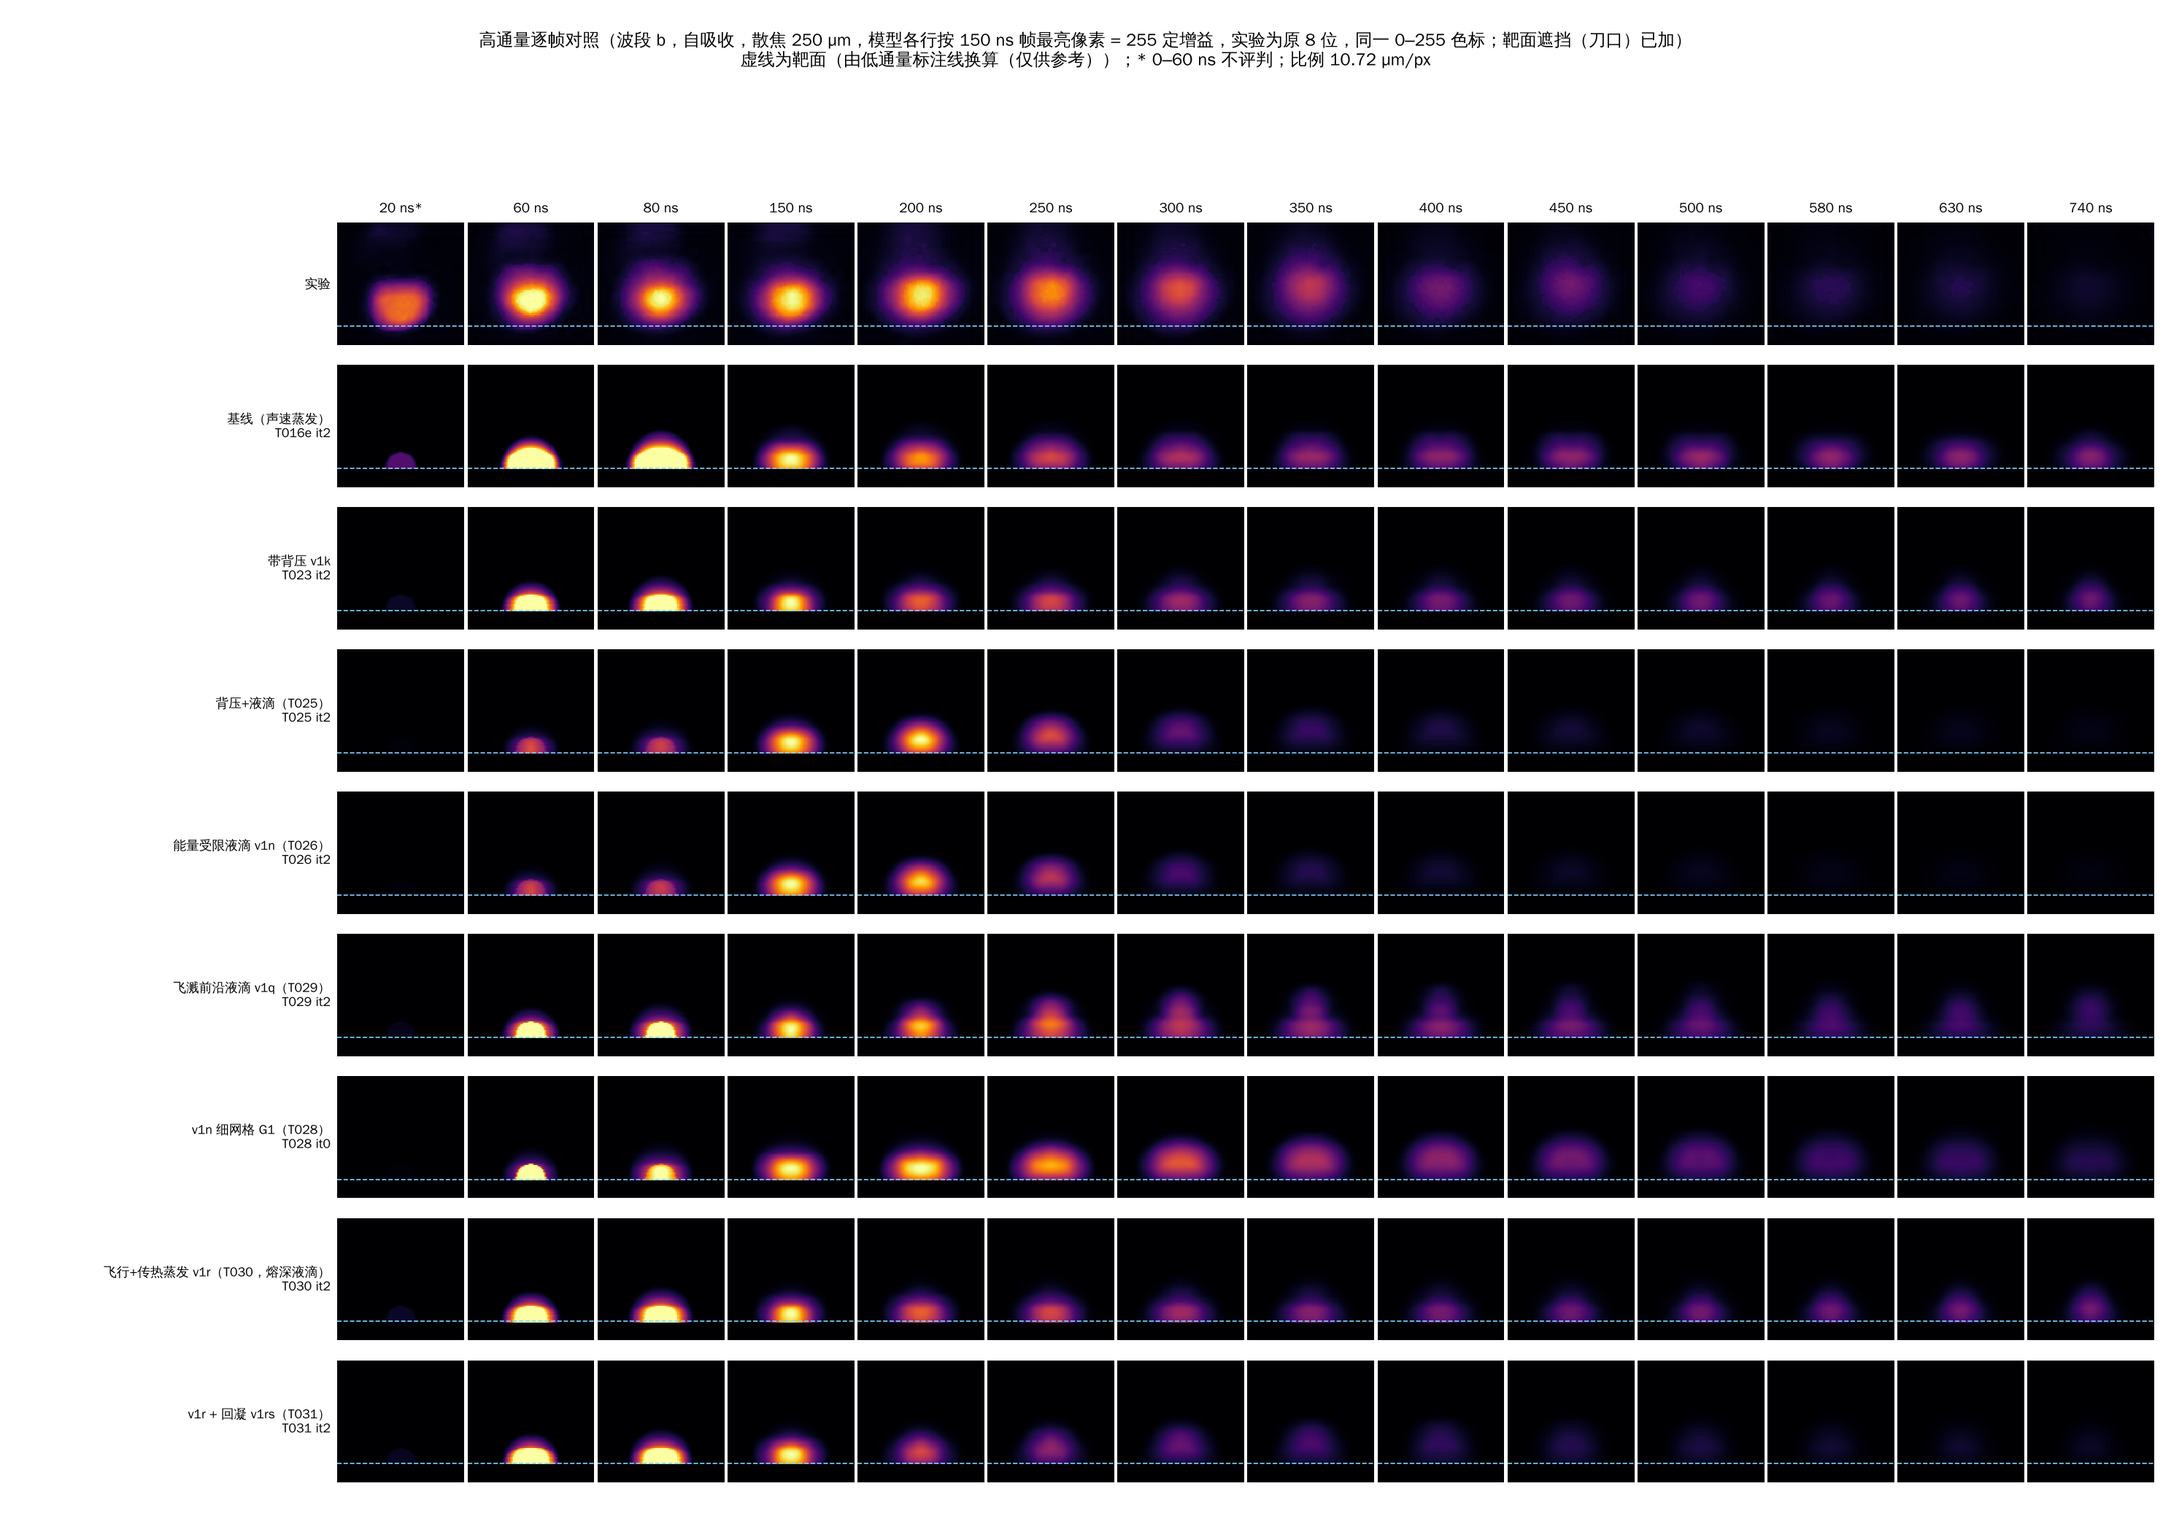
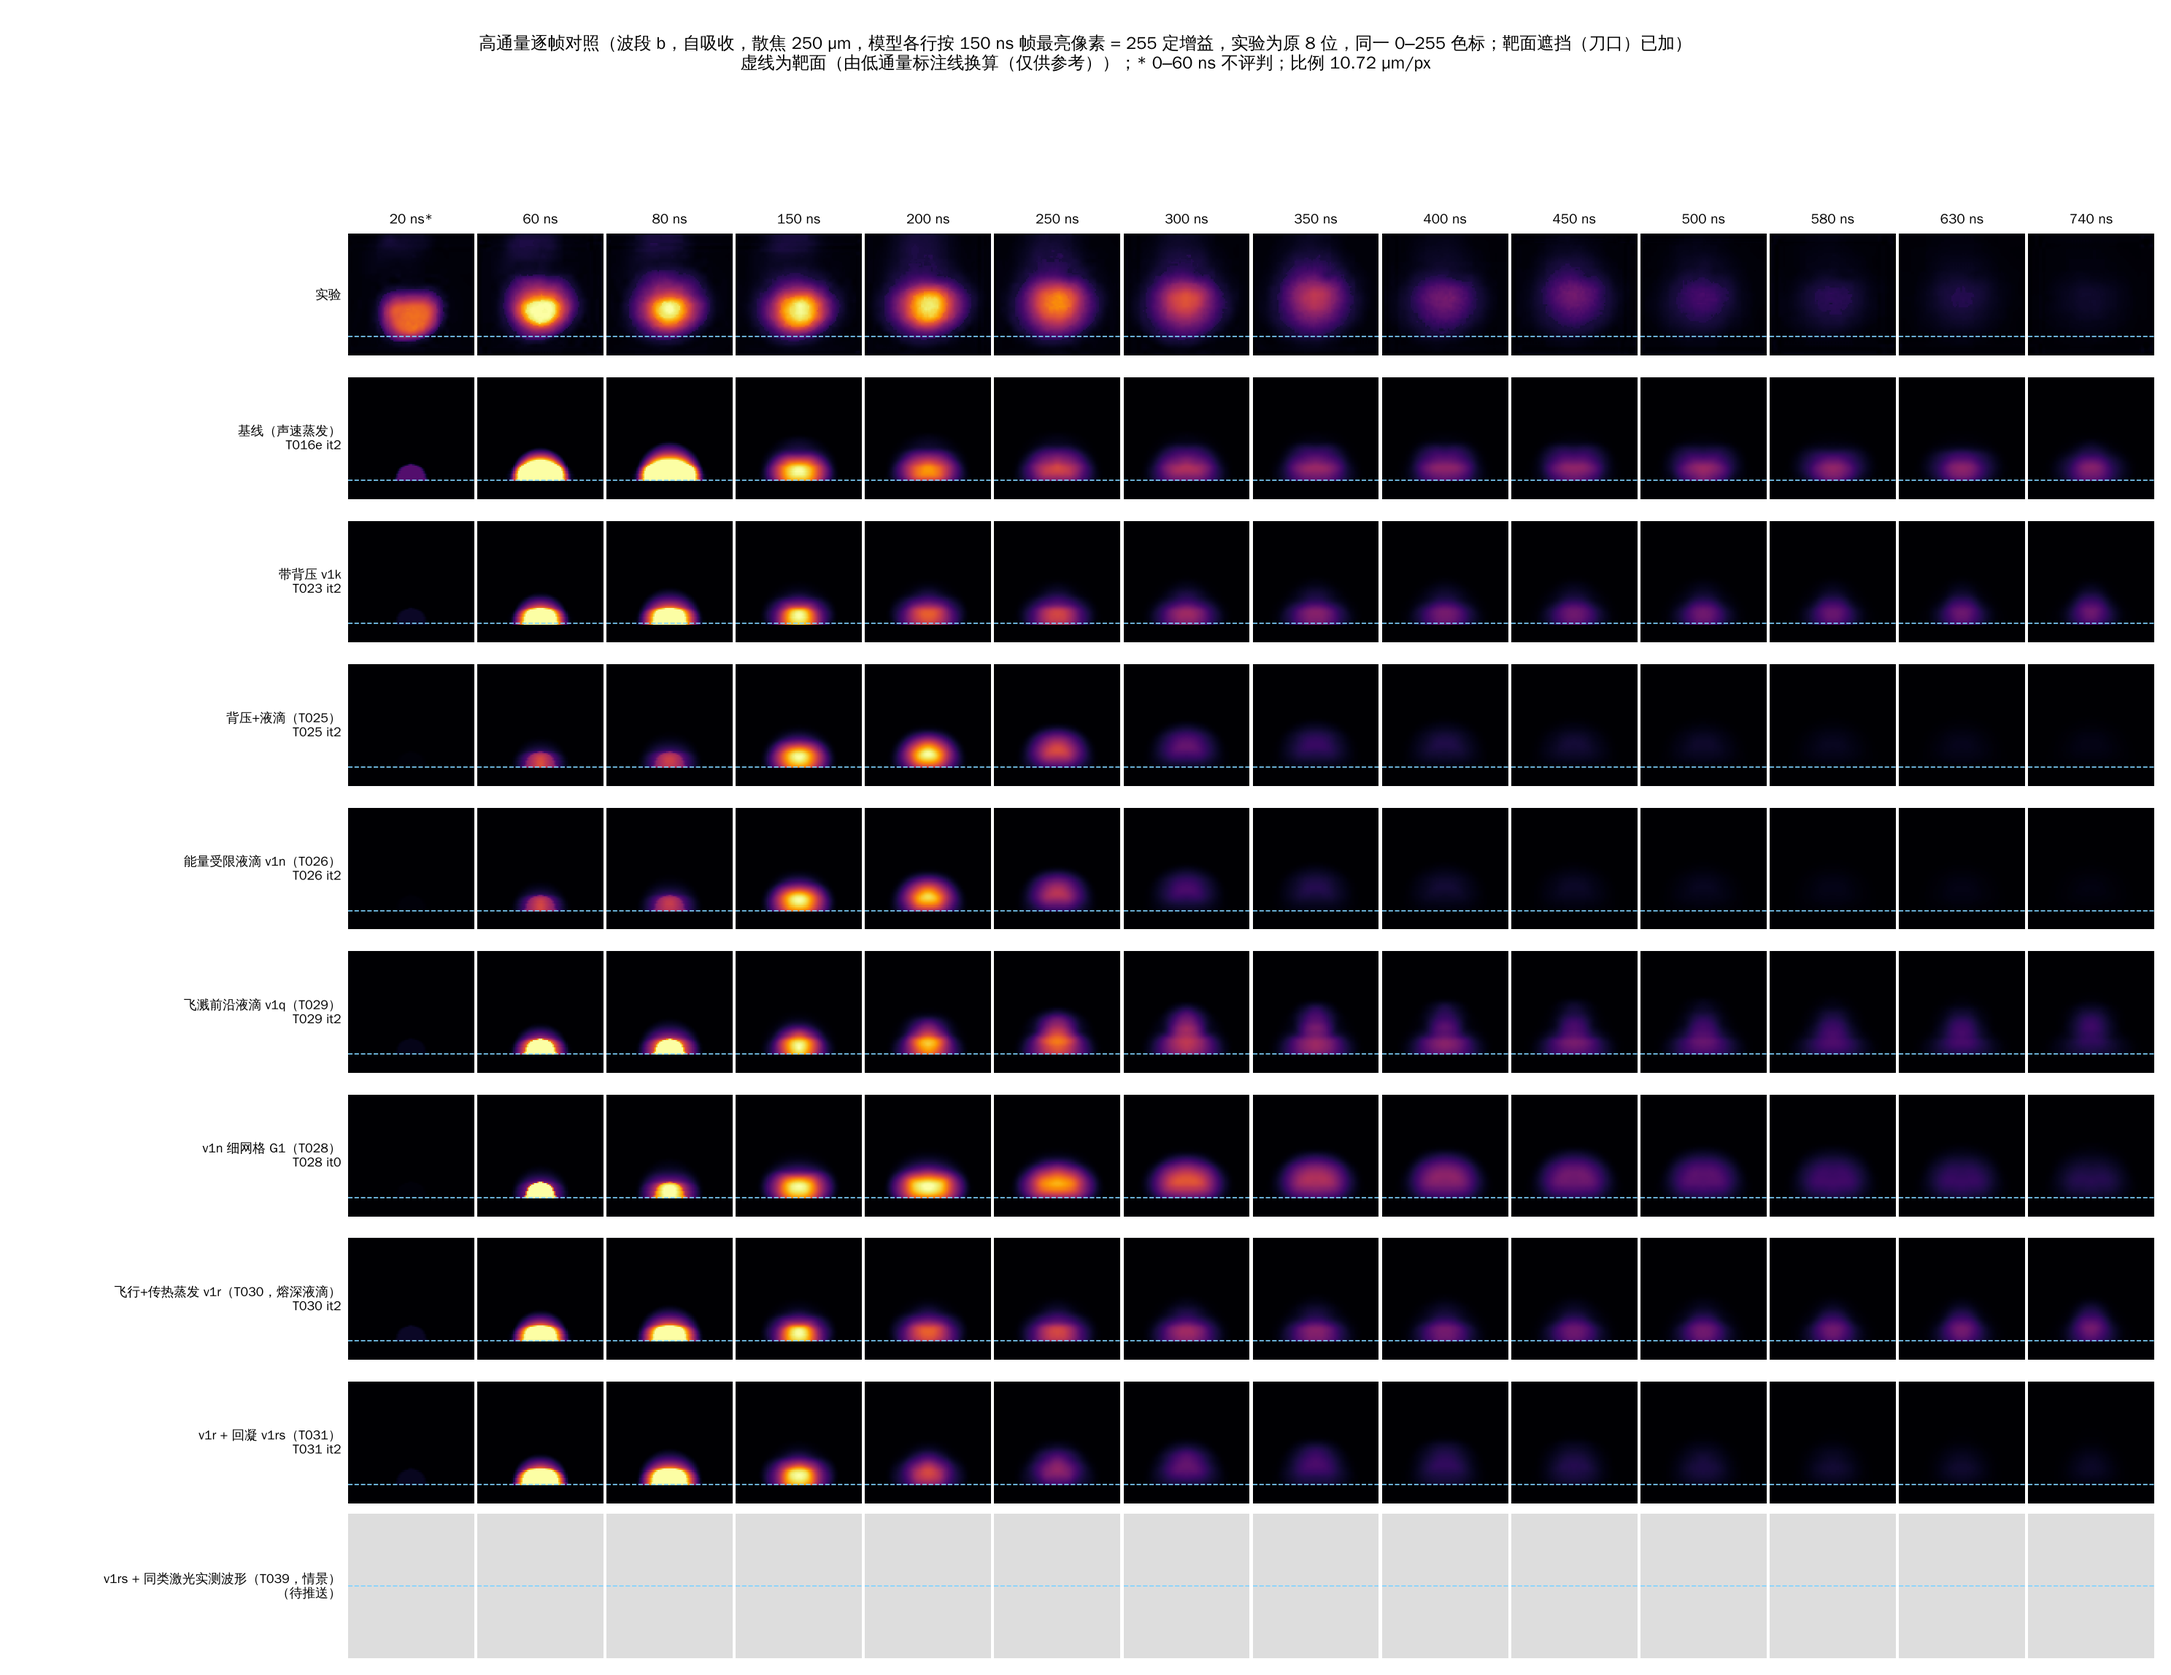
Figures: t0-aligned (Δ=28 ns) frames, curves, shock; waveform scenario row
Claude-Session: https://claude.ai/code/session_01FS7WDGPKzwdDyXZyPwrs24

diff --git a/scripts/plot_full_comparison.py b/scripts/plot_full_comparison.py
@@ -43,8 +43,8 @@ plt.rcParams.update({"font.size": 9, "axes.spines.top": False, "axes.spines.righ
 LOGFMT = FuncFormatter(lambda v, _: f"{v:g}")
 T_REF = 300.0  # num (registry t_ref_norm, ns)
 K = "#222222"
-COL = {"baseline": "#2a78d6", "droplets": "#eb6834", "backpress": "#1baf7a", "combo": "#8e44ad", "elim": "#c0392b", "spatter": "#7f8c8d", "g1": "#000000", "flight": "#d4a017", "recond": "#16a085"}
-LAB = {"baseline": "基线（声速蒸发）", "droplets": "液滴上界 v1j", "backpress": "带背压 v1k", "combo": "背压+液滴（T025）", "elim": "能量受限液滴 v1n（T026）", "spatter": "飞溅前沿液滴 v1q（T029）", "g1": "v1n 细网格 G1（T028）", "flight": "飞行+传热蒸发 v1r（T030，熔深液滴）", "recond": "v1r + 回凝 v1rs（T031）"}
+COL = {"baseline": "#2a78d6", "droplets": "#eb6834", "backpress": "#1baf7a", "combo": "#8e44ad", "elim": "#c0392b", "spatter": "#7f8c8d", "g1": "#000000", "flight": "#d4a017", "recond": "#16a085", "wave": "#e84393"}
+LAB = {"baseline": "基线（声速蒸发）", "droplets": "液滴上界 v1j", "backpress": "带背压 v1k", "combo": "背压+液滴（T025）", "elim": "能量受限液滴 v1n（T026）", "spatter": "飞溅前沿液滴 v1q（T029）", "g1": "v1n 细网格 G1（T028）", "flight": "飞行+传热蒸发 v1r（T030，熔深液滴）", "recond": "v1r + 回凝 v1rs（T031）", "wave": "v1rs + 同类激光实测波形（T039，情景）"}
 
 
 IMG = "image_v2"  # --image-dir image_v2_t28: t0-aligned imaging (PREREG t0 alignment)
@@ -59,6 +59,11 @@ def latest(base, its):
 
 
 def members():
+    if IMG != "image_v2":   # t0-aligned imaging (T037 holds the reported members; T039 its own)
+        return {"high": {"elim": latest("results/T037/high_thin_G0", ["."]), "recond": latest("results/T037/high_v1rs", ["."]),
+                         "wave": latest("results/T039/high_wf", ["it2"])},
+                "low": {"elim": latest("results/T037/low_thin_G0", ["."]), "recond": latest("results/T037/low_v1rs", ["."]),
+                        "wave": latest("results/T039/low_wf", ["it1"])}}
     return {
         "high": {"baseline": latest("results/T016e/high_thin_G0", ["it2"]),
                  "backpress": latest("results/T023/high_thin_G0", ["it2", "it1"]),
@@ -67,7 +72,8 @@ def members():
                  "spatter": latest("results/T029/high_thin_G0", ["it2", "it1", "it0"]),
                  "g1": latest("results/T028/high_thin_G1", ["it0"]),
                  "flight": latest("results/T030/high_rp", ["it2"]),
-                 "recond": latest("results/T031/high_v1rs", ["it2"])},
+                 "recond": latest("results/T031/high_v1rs", ["it2"]),
+                 "wave": latest("results/T039/high_wf", ["it2"])},
         "low": {"baseline": latest("results/T016e/low_thin_G0", ["it1"]),
                 "backpress": latest("results/T023/low_thin_G0", ["it1", "it0"]),
                 "combo": latest("results/T025/low_thin_G0", ["it1", "it0"]),
@@ -75,7 +81,8 @@ def members():
                 "spatter": latest("results/T029/low_thin_G0", ["it1", "it0"]),
                 "g1": latest("results/T028/low_thin_G1", ["it0"]),
                 "flight": latest("results/T030/low_rp", ["it1"]),
-                "recond": latest("results/T031/low_v1rs", ["it1"])},
+                "recond": latest("results/T031/low_v1rs", ["it1"]),
+                "wave": latest("results/T039/low_wf", ["it1"])},
     }
 
 
@@ -175,7 +182,7 @@ def frames_figure(series, mode, srow):
                 a.set_ylabel(lab, fontsize=7.5, rotation=0, ha="right", va="center")
     src = "Fig. 2a 作者标注的 Air/Copper 线" if series == "low" else "由低通量标注线换算（仅供参考）"
     fig.suptitle(f"{'高' if series == 'high' else '低'}通量逐帧对照（波段 b，{'自吸收' if mode == 'sa' else '光学薄'}，散焦 250 µm，"
-                 f"{'模型各行按自身最亮帧定增益（不饱和），实验为原 8 位' if GAIN_MODE == 'peak' else ('模型各行按 150 ns 帧最亮像素 = 255 定增益，实验为原 8 位' if GAIN_MODE == 'peak150' else '各行在 300 ns 单独定增益')}，同一 0–255 色标{'；靶面遮挡（刀口）已加' if OCCLUDE else ''}）\n虚线为靶面（{src}）；* 0–60 ns 不评判；比例 {um:.2f} µm/px",
+                 f"{'模型各行按自身最亮帧定增益（不饱和），实验为原 8 位' if GAIN_MODE == 'peak' else ('模型各行按 150 ns 帧最亮像素 = 255 定增益，实验为原 8 位' if GAIN_MODE == 'peak150' else '各行在 300 ns 单独定增益')}，同一 0–255 色标{'；靶面遮挡（刀口）已加' if OCCLUDE else ''}{'；模型时间 = 实验标签 + 28 ns（t0 由激波确定）' if IMG != 'image_v2' else ''}）\n虚线为靶面（{src}）；* 0–60 ns 不评判；比例 {um:.2f} µm/px",
                  fontsize=10)
     fig.tight_layout(rect=(0.04, 0, 1, 0.92), h_pad=0.3, w_pad=0.2)
     out = ROOT / f"results/figures/full_frames_{series}{'_occluded' if OCCLUDE else ''}{'_unsat' if GAIN_MODE == 'peak' else ''}{'_g150' if GAIN_MODE == 'peak150' else ''}{'_' + IMG.split('_')[-1] if IMG != 'image_v2' else ''}.png"
@@ -350,7 +357,8 @@ def main(argv=None):
     for s in ("high", "low"):
         print(s, {k: (str(v.relative_to(ROOT)) if v else None) for k, v in MEMBERS[s].items()})
         print(frames_figure(s, a.mode, srows[s]))
-        print(geometry_figure(s, a.mode, srows[s]))
+        if IMG == "image_v2":
+            print(geometry_figure(s, a.mode, srows[s]))
     print(curves_figure(a.mode, srows))
     print(shock_figure())
 
